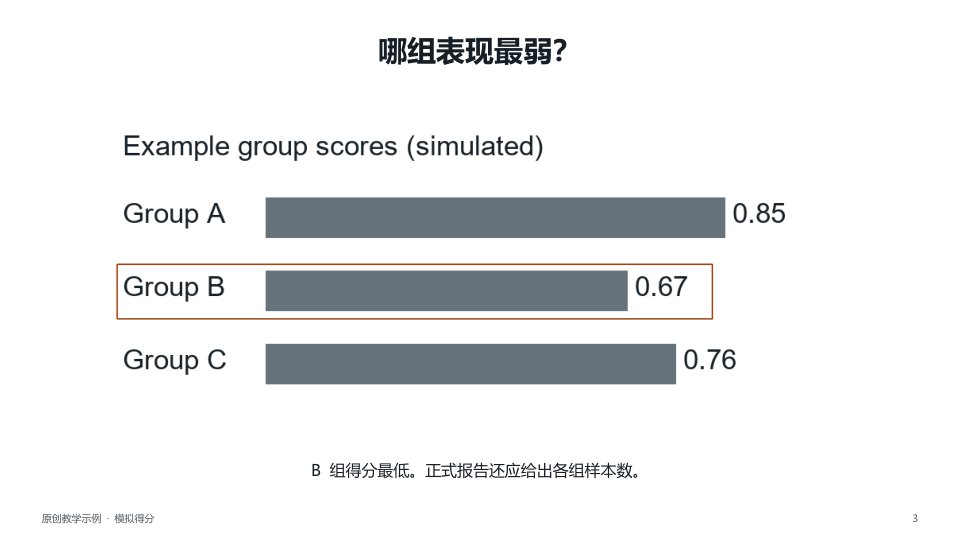
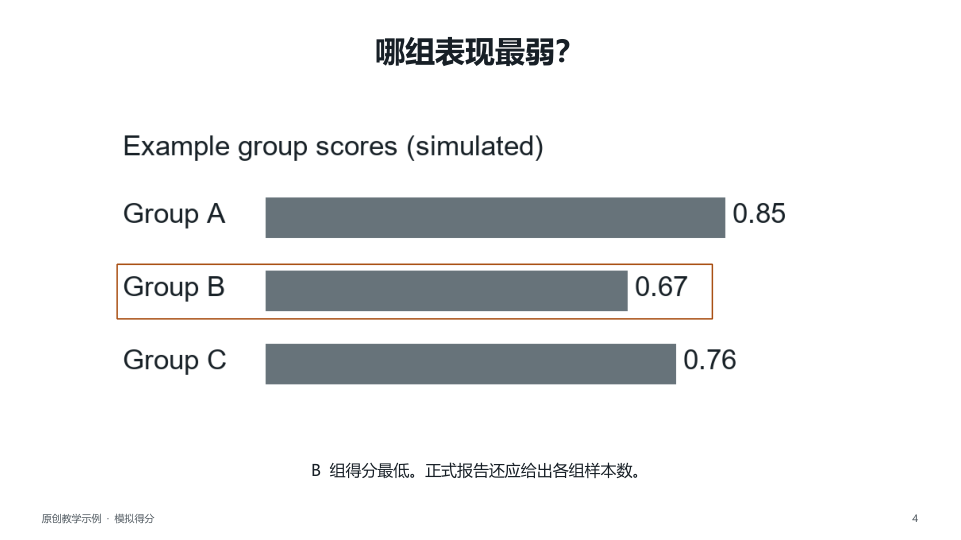
Publish citation footers and editable comparison layouts

Changed region(s): [[0.3746, 0.0593, 0.5931, 0.1185]]

diff --git a/scripts/build_deck.py b/scripts/build_deck.py
@@ -1,21 +1,25 @@
 """Render a research-talk JSON manifest to editable PowerPoint."""
 import argparse
 import json
+from math import isfinite
 from pathlib import Path
 
 from pptx import Presentation
 from pptx.dml.color import RGBColor
 from pptx.enum.shapes import MSO_SHAPE
-from pptx.enum.text import PP_ALIGN
+from pptx.enum.text import MSO_ANCHOR, PP_ALIGN
 from pptx.oxml.ns import qn
 from pptx.oxml.xmlchemy import OxmlElement
 from pptx.util import Inches, Pt
 
 
 INK = "172026"
-ACCENT = "A64310"
+ACCENT = "A94F13"
+COVER_INK = "193A56"
 MUTED = "505960"
 PAPER = "FFFFFF"
+TABLE_HEAD = "EAF0F4"
+RULE = "D8DEE3"
 FONT = "Microsoft YaHei"
 MARGIN = 0.58
 CONTENT_W = 12.17
@@ -41,6 +45,12 @@ def box(slide, x, y, width, height, fill):
     return shape
 
 
+def east_asian_font(paragraph):
+    east_asian = OxmlElement("a:ea")
+    east_asian.set("typeface", FONT)
+    paragraph._p.get_or_add_pPr().get_or_add_defRPr().append(east_asian)
+
+
 def text(slide, value, x, y, width, height, size, ink=INK, bold=False,
          align=PP_ALIGN.LEFT, emphasis=""):
     if not value:
@@ -61,9 +71,7 @@ def text(slide, value, x, y, width, height, size, ink=INK, bold=False,
         paragraph.font.bold = bold
         paragraph.font.color.rgb = color(ink)
         # Explicit East Asian fallback keeps CJK text independent of the slide theme.
-        east_asian = OxmlElement("a:ea")
-        east_asian.set("typeface", FONT)
-        paragraph._p.get_or_add_pPr().get_or_add_defRPr().append(east_asian)
+        east_asian_font(paragraph)
         if emphasis and emphasis in paragraph.text:
             before, _, after = paragraph.text.partition(emphasis)
             paragraph.clear()
@@ -138,10 +146,69 @@ def draw_flow(slide, steps):
 def draw_points(slide, points):
     if not 2 <= len(points) <= 4:
         raise ValueError("A points slide needs two to four points")
+    if all(isinstance(point, dict) for point in points):
+        for index, point in enumerate(points):
+            y = 1.66 + index * 1.10
+            if index:
+                box(slide, 1.22, y - 0.15, 10.85, 0.01, RULE)
+            text(slide, point["label"], 1.22, y, 2.48, 0.72, 18, ACCENT, True)
+            text(slide, point["body"], 3.97, y, 8.10, 0.94, 19)
+        return
+    if not all(isinstance(point, str) for point in points):
+        raise ValueError("Points must all be strings or all be label/body objects")
     for index, point in enumerate(points):
         y = 1.90 + index * 1.00
         text(slide, "•", 1.22, y, 0.28, 0.48, 19, MUTED)
         text(slide, point, 1.65, y, 10.45, 0.85, 22)
+
+
+def draw_table(slide, item):
+    rows = item["rows"]
+    if not isinstance(rows, list) or len(rows) < 2 or not isinstance(rows[0], list) or not rows[0]:
+        raise ValueError("A table needs a nonempty header row and at least one data row")
+    columns = len(rows[0])
+    if any(not isinstance(row, list) or len(row) != columns for row in rows):
+        raise ValueError("All table rows must have the same number of cells")
+    widths = item.get("column_widths", [1] * columns)
+    if not isinstance(widths, list) or len(widths) != columns or any(
+        not isinstance(width, (int, float)) or not isfinite(width) or width <= 0 for width in widths
+    ):
+        raise ValueError("column_widths needs one positive weight per column")
+
+    lead = item.get("lead", "")
+    top = 1.81 if lead else 1.45
+    bottom = 6.13 if item.get("takeaway") else 6.53
+    height = min(bottom - top, 0.77 * len(rows))
+    y = top + (bottom - top - height) / 2
+    text(slide, lead, MARGIN, y - 0.53, CONTENT_W, 0.45, 15, MUTED, align=PP_ALIGN.CENTER)
+    table = slide.shapes.add_table(
+        len(rows), columns, Inches(MARGIN), Inches(y), Inches(CONTENT_W), Inches(height)
+    ).table
+    table.first_row = table.horz_banding = False
+    total = sum(widths)
+    for column, width in zip(table.columns, widths):
+        column.width = Inches(CONTENT_W * (width / total))
+
+    for index, values in enumerate(rows):
+        row = table.rows[index]
+        row.height = Inches(height / len(rows))
+        for cell, value in zip(row.cells, values):
+            if not isinstance(value, (str, int, float)):
+                raise ValueError("Table cells must contain text or a number")
+            cell.text = str(value)
+            cell.vertical_anchor = MSO_ANCHOR.MIDDLE
+            cell.margin_left = cell.margin_right = Inches(0.12)
+            cell.margin_top = cell.margin_bottom = Pt(1)
+            cell.fill.solid()
+            cell.fill.fore_color.rgb = color(TABLE_HEAD if index == 0 else PAPER)
+            for paragraph in cell.text_frame.paragraphs:
+                paragraph.space_before = paragraph.space_after = Pt(0)
+                paragraph.line_spacing = 1.0
+                paragraph.font.name = FONT
+                paragraph.font.size = Pt(14 if len(rows) >= 8 else 16)
+                paragraph.font.bold = index == 0
+                paragraph.font.color.rgb = color(INK)
+                east_asian_font(paragraph)
 
 
 def draw_slide(deck, item, directory, number):
@@ -159,15 +226,18 @@ def draw_slide(deck, item, directory, number):
     if emphasis and not any(emphasis in line for line in title.splitlines()):
         raise ValueError("Title emphasis must be a literal phrase on one line of the title")
     if kind in {"cover", "closing"}:
-        text(slide, title, 1.00, 2.17, 11.33, 1.84, 39, INK, True,
+        text(slide, title, 1.00, 2.17, 11.33, 1.84, 39, COVER_INK if kind == "cover" else INK, True,
              PP_ALIGN.CENTER, emphasis)
         text(slide, item.get("subtitle", ""), 1.00, 4.22, 11.33, 0.85,
              18, MUTED, align=PP_ALIGN.CENTER)
     else:
-        text(slide, title, MARGIN, 0.41, CONTENT_W, 0.92, 29, INK, True,
+        title_size = 24 if "\n" in title else 30
+        text(slide, title, MARGIN, 0.41, CONTENT_W, 0.92, title_size, INK, True,
              PP_ALIGN.CENTER, emphasis)
         if kind == "figure":
             draw_figure(slide, item, directory)
+        elif kind == "table":
+            draw_table(slide, item)
         elif kind == "flow":
             draw_flow(slide, item["steps"])
         elif kind == "points":

diff --git a/references/layouts.md b/references/layouts.md
@@ -1,25 +1,38 @@
 # 图像主导的科研汇报
 
-参考朱河勤的 structRFM 学术报告，从背景收束到一个明确问题，再用方法图、基准比较和失败案例逐步回答。作者报告的 PDF 第 7–8 页先提出结构信息如何进入预训练，第 11 页单独展开遮盖机制，第 17–18 页分别看盲测结果和难例。这里复用的是图表的组织方法和视觉层级。
+参考朱河勤的 structRFM 学术报告的编排。从背景收束到明确问题，再用方法图、基准比较和难例逐步回答。作者报告的 PDF 第 7–8 页提出结构信息如何进入预训练，第 11 页单独展开遮盖机制，第 17–18 页依次看盲测结果和难例。正式结果、数值和数据集名称用发表版核对。原图与正文有差异时，把影响理解的差异放在图旁。
 
 | 页面 | 用于 | 页面核心 |
 | --- | --- | --- |
 | `cover` | 开场 | 研究题目和汇报场景 |
 | `flow` | 关系比原图更适合用简图解释的方法 | 两到五个短步骤，用位置和箭头表达先后 |
 | `figure` | 方法、基准、难例 | 放大一个主图，或用两幅有关联的图回答同一个问题 |
-| `points` | 讨论与无法用图表达的限制 | 两到四条针对具体条件或结果的陈述 |
+| `table` | 模型概览、方法对照、定量汇总 | 可编辑表格，表头浅灰蓝，按同一口径逐行比较 |
+| `points` | 讨论与无法用图表达的限制 | 两到四条具体陈述，必要时左列用短标签带读 |
 | `closing` | 结束 | 结论或讨论问题 |
 
 ## 如何让重点先被看到
 
-- **决定一页讲什么，再决定怎么放。** 用标题说明这页研究的问题，或直接给出有证据支持的答案。标题已给出答案时，图下文字只用来解释实验条件、读法和例外。
+- **决定一页讲什么，再决定怎么放。** 动机、机制、对照和边界页适合用原图能回答的具体问题作标题。背景、模型概览和结论页可以用短标题。标题已给出答案时，图下文字用来说明实验条件、读法和例外。
+- **跨材料用问题转场。** 保留一个统一封面和连贯页码，把重复背景讲一次。上一部分收束到听众理解的一个未决问题，下一部分接着回答。例如先提出泛化问题，再解释测试划分，最后用一篇论文展开方法与证据。具体章节和页数按实际材料决定。
 - **把空间给证据。** 流程图讲一个变化，结果页讲一个比较。对多分面图按论证挑选或拆分。并排用于逐项对照，两张很宽的图可上下放。需要听众频繁在两张图之间来回找信息时，分两页。
-- **用颜色指向要看的位置。** 页面的文字和背景以黑白灰为主。单页可强调一个短词，或在原图上圈出一个关键区域。原图用于区分模型、类别和变量的颜色完整保留。通过字号、留白、对齐和位置形成层级。
+- **用字号、对齐和留白形成层级。** 封面以居中深蓝主标题、短副标题和场合信息开场。正文标题顶端居中，通常约 30 pt，焦橙色（`#A94F13`）用于一个短关键词或一处图内强调。图居中放大，短图注靠近证据。原图用于区分模型、类别和变量的颜色完整保留。
+- **统一对照的读法。** 同类小图并排或上下对齐，使用简短的可编辑中文标签标出各自的条件。模型清单、微调选项和评估口径可用原生表格，优先只保留现场需要比较的列。内容密集时，在相邻两页用同样的表头和列序继续，保留原来的字号。
 - **把反例摆在观众面前。** 保留强基线和不利结果。若整体性能和局部例子各回答一个问题，让前后两页分别展示。实验页至少让听众知道比较对象、数据集与指标含义。会改变结论的条件就近写在图注或短句里，其余移入讲稿。
 
 ## 清单字段
 
-- `source` 用短出处，例如“论文 DOI · 图 3d，p. 5”。重绘注明来源与重绘。 `notes` 放读图顺序、过渡与解释细节。
+- `source` 是页左下角的单行引用或数据来源，正文页码放右下角。`notes` 放先指哪里、再比较什么、怎么过渡，以及完整出处。已确定汇报时长时，可在每页备注开头写建议用时。
 - `takeaway` 可选，用于图中难以直接读出的关键结论或适用条件。默认是普通文字。留空时图可使用更多空间。
 - `emphasis` 可选，填标题中实际出现的一个短语。也可在单个图片对象中用 `"highlight": [x, y, width, height]` 标出要讲的区域。坐标为相对于裁后图片左上角的比例，使用前检查细线是否挡住坐标或数据。每页最多选一种强调方式。
 - `figure` 支持一个或两个图。布局默认 `row`，两张宽图可用 `"layout": "stack"` 上下排列。图片对象的 `caption` 用单行短标签，紧跟各自的图。图内已有充分说明时可省略。
+- `table` 用 `rows` 提供二维数组，首行为表头。可用 `column_widths` 设置各列相对宽度，用 `lead` 提供一行读表提示。列宽默认均分。可直接改动 PPTX 中的每个单元格。
+- `points` 可用短字符串作为项目符号，或用一组 `{"label": "短标签", "body": "一句陈述"}` 生成两列对齐的版式。
+
+## 页脚引用
+
+引用论文观点、数值、图表或数据集时，在使用它的那一页左下角写一行小号灰字。采用“作者，年份 · 定位”，例如“作者等，2025 · 图 3d–e”或“Author et al., 2025 · Table 2”。同一篇论文的多个分面合写。也可用页码、章节名或数据版本定位。核对不到作者或年份时，用已核实的短标题或标识。自有实验可用“实验编号 · 结果表”说明来源。
+
+一页有多篇文献时，用分号分开，必要时写明“左图 / 右图”。重绘或改编就在对应引文后标“重绘”或“改编”。作者全名、完整标题、期刊和 DOI 放进演讲者备注。需要正式文献表时，可另放在末尾，仍在相关页保留短引。
+
+页脚沿用白底、小号灰字和左对齐，省去色带、卡片、边框和图标。空间有限时优先保留作者、年份与定位。若一页来源太多，可用短编号对应备注或文献表，并核对投影时能辨认。

diff --git a/SKILL.md b/SKILL.md
@@ -5,13 +5,14 @@ description: Create editable Chinese or English PowerPoint decks for scientific 
 
 # Research Talk PPT
 
-Turn the scientific argument into an editable 16:9 deck. Default to the user's language, audience and timing. Follow an explicitly requested visual template when supplied.
+Turn the scientific argument into an editable 16:9 deck. Default to a white canvas, centered dark titles, one short burnt-orange title emphasis or figure callout, and large, centered evidence. Follow the user's language, audience, timing and any supplied visual template.
 
 1. Read the evidence. Prefer the paper and figures for claims and the latest verified run artifacts for the user's own results. Check central values, cohorts, baselines and metric directions. DeepPaperNote is a useful index.
-2. Read `references/layouts.md`. For each main slide, choose the question, the evidence the audience should look at first, and the answer they can take away. Plan the sequence from question to mechanism, comparison and boundary. Use an instructive failure or difficult example when available and give it a separate page when it answers a different question from the aggregate result.
-3. Build the page around the chosen figure or diagram. Crop to the relevant panels, retaining labels, axes, uncertainty and legends. If details are too small for projection, split the figures along the argument. Let the slide title or a short sentence under the evidence state the conclusion once. Put narration in notes and keep qualifiers visible when they change the meaning of the claim.
+2. Read `references/layouts.md`. For each main slide, choose the question, the evidence the audience should look at first, and the answer they can take away. In an integrated talk, merge duplicated introductions and use a concrete unresolved question to connect each section to the next. Translate a source talk's questions when requested. Give a difficult example its own page when it answers a different question from the aggregate result.
+3. Build the page around one figure, aligned comparison or editable table. Crop to the relevant panels, retaining labels, axes, uncertainty and legends. Split dense evidence across pages at a readable size. Use a title or a short sentence near the evidence to state the conclusion once, keeping qualifications that change its meaning visible. Put the reading order, spoken transition and full citations in notes. When timing matters, budget the notes across the whole talk.
+   Give every slide that uses a published claim, figure, table, or dataset a short citation in the bottom-left footer using `source`. Use one line of small gray text, typically author and year plus the relevant figure, table, or section. Put full reference details in `notes` or in a references slide when requested. Keep the footer free of colored backgrounds and decoration.
 4. Create a UTF-8 JSON manifest following `examples/demo.json`. Use a white canvas, dark main text, quiet sources and one optional highlight per slide. Preserve paper colors that encode scientific information. Use the local renderer for a local PPTX with Python 3.10+ and `python-pptx>=1.0.2,<2`. Resolve the script relative to this skill directory.
    `python scripts/build_deck.py path/to/deck.json path/to/output.pptx`
-5. Render with PowerPoint or LibreOffice. Scan the deck as thumbnails to check that each slide has a clear focal point, then inspect every slide at presentation size for readable axes, labels, glyphs and footers. Reopen the PPTX to verify notes and separate image objects. Report any unavailable verification.
+5. Render with PowerPoint or LibreOffice. Scan the deck as thumbnails to check that each slide has a clear focal point, then inspect every slide at presentation size for readable axes, labels, glyphs and footers. Check that citations fit on one line and identify the evidence on that slide. Reopen the PPTX to verify notes and separate image objects. Report any unavailable verification.
 
 Use only materials authorized for the requested audience. For public examples use original or appropriately licensed assets with attribution. Keep source figures as separate image objects. Use native editable text and shapes for the narrative and simple diagrams.

diff --git a/README.md b/README.md
@@ -1,8 +1,8 @@
 # Research Talk PPT
 
-一个面向中文组会、论文精读和科研进展汇报的 Codex Agent Skill。将论文证据、预裁切图表和演讲笔记整理成以图为主、可编辑的 PowerPoint。内置封面、流程、单图/双图、讨论、结束五类页。
+一个面向中文组会、论文精读和科研进展汇报的 Codex Agent Skill。将论文证据、预裁切图表和演讲笔记整理成以图为主、可编辑的 PowerPoint。支持封面、流程、单图或双图、可编辑表格、讨论和结束页。
 
-页面默认使用白底和深色文字。先为每页挑出最能回答问题的图或分面，再决定是否需要一个局部强调。短出处与图注保留在页面上，读图顺序和补充解释写入演讲者备注。
+页面默认使用白底、居中深色标题和焦橙色局部强调。先为每页挑出最能回答问题的图或分面。引用放在对应页左下角，用一行小号灰字写“作者，年份 · 图表编号”。完整文献、读图说明和口头转场放进演讲者备注。
 
 ![单图结果页。灰色柱形保持统一，细框只标出需要讨论的 B 组](examples/preview.png)
 
